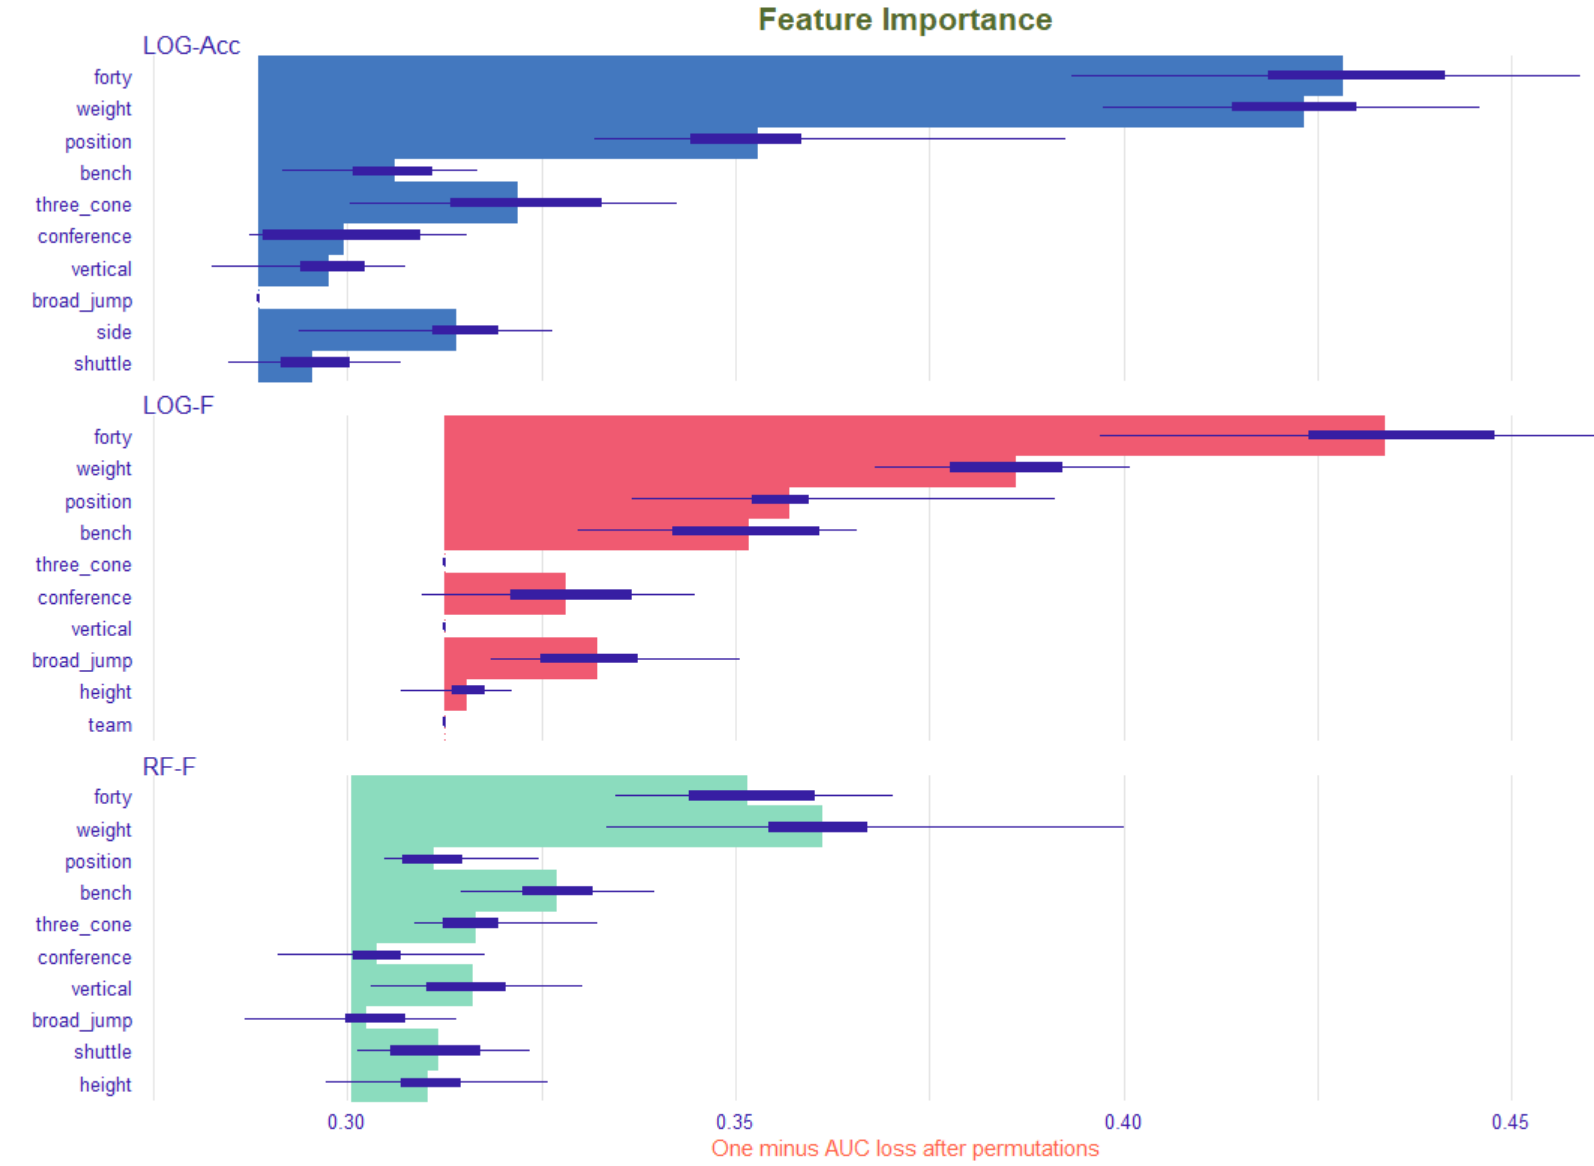
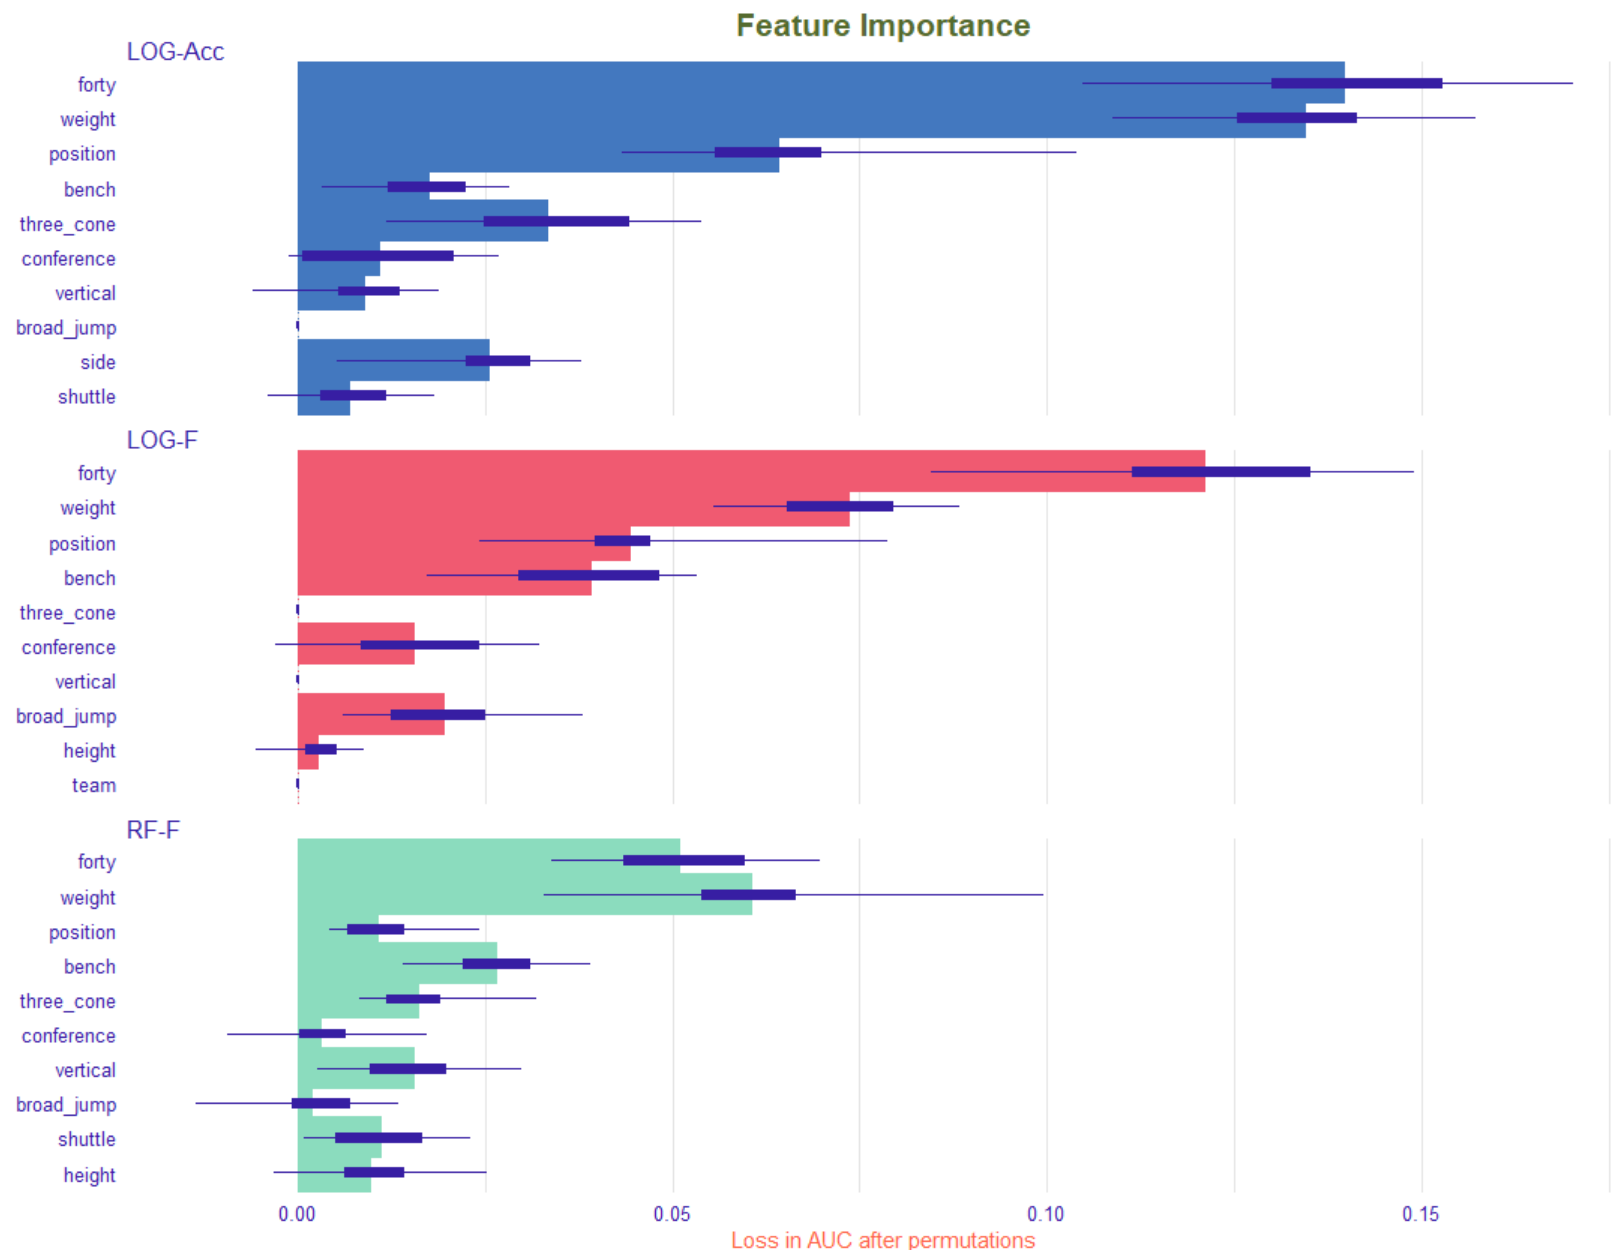
README

diff --git a/README.md b/README.md
@@ -23,7 +23,7 @@ doParallel | 1.0.16
 
 ### Business Requirement
 1. Develop a Model to predict if a player will be drafted
-2. For the players that got drafted develop a Model to predict if they will be drafted in the 1st Round.
+2. Examine the importance of combine results relate to being drafted.
 
 ### Data Collection
 **(raw)**
@@ -340,21 +340,75 @@ RF-Acc SIMPLE (mtry = 6, min = 9) | 0.697 | 0.679 | 0.809 | 0.432 | 0.73 | 0.809
 ## Feature Importance
 <img src="Images/PA/vip.PNG" width="  1000">
 
+> **Note: (Variable Importance)**
+- **Logistic Regression (NORMAL)**
+  1. Forty = 0.14
+  2. Weight = 0.135
+  3. Position = 0.064
+  4. Three Cone = 0.033
+  5. Side = 0.026
+  6. Bench = 0.018
+- **Logistic Regression (SIMPLE)**
+  1. Forty = 0.121
+  2. Weight = 0.074
+  3. Position = 0.044
+  4. Bench = 0.039
+  5. Broad Jump = 0.02
+  6. Conference = 0.016
+- **Random Forrest (NONE)**
+  1. Weight = 0.061
+  2. Forty = 0.051
+  3. Bench = 0.027
+  4. Three Cone = 0.016
+  5. Vertical 0.016
+  6. Shuttle = 0.011
+
 ## Partial Dependency
 <img src="Images/PA/pdp.PNG" width="  1000">
-<img src="Images/PA/cp.PNG" width="  1000">
 
-**SIDE**
+> **Note (pdp Continuous)**
+- **BENCH:** Looking at all the players in this dataset for **Random Forrest** on average the players on this dataset _based on bench reps_ are predicted to be drafted. It also shows that the relationship between bench reps and the probability of being drafted is monotonic. For **Logistic Regression** players that have a _bench rep below 10 reps_ are predicted on average to not be drafted. **Both Models** captures the general shape that as bench reps increase so those the probability of a certain player being drafted.   
+- **FORTY**:  In general **Both Models** show that as 40 time increases the probability of a player being drafted decreases. **Random Forrest** shows that relationship is monotonic showing a bit of a sharp decrease as 40 time approaches 5.0 seconds. However the **Random Forrest** still predicts in on average all players to be drafted just based on 40 time. **Logistic Regression** also captures the general relationship of 40 time and the probability of being drafted. However as 40 time approaches 5.0 seconds **Logistic Regression** starts to predict players not being drafted.
+- **WEIGHT:** In general **Both Models** show that in general as weight increases so those the probability of a player being drafted. **Random Forrest** shows that the relationship between weight and the probability of being drafted is monotonic.**Random Forrest** also predicts on average all players to be drafted to be drafted just based on weight. **Logistic Regression** also captures the general shpae that as weight increases so those the probaility of a player being drafted. However, if a certain player weighs below 200 **Logistic Regression** just based on wieght will predict that player as not being drafted.
 
-<img src="Images/PA/pdp_side.PNG" width="  1000">
+<img src="Images/PA/pdp_Position.PNG" width="  1000">
+<img src="Images/PA/pdp_Conference.PNG" width="  1000">
 
-**POSITION**
+> **Note (pdp Categorical)**
+- **POSITION:** For **_Random Forrest_** in general if your just differentiating by position the model predicts all position to be drafted. You also don't see a lot a variability in the probability of being drafted factored by position all around 60%. For **_Logistic Regression_** you see all lot a variability in the probability of being drafted factored by position. _Offensive Guards & Tackles_ have the highest probability of being drafted at around 70-80%. Edge Rushers, Long Snappers, Quarterbacks, and Safty have lowest probability of being drafted at around 20%
+- **CONFERENCE:** **Random Forrest**, just based on conference, shows no matter which conference the player plays for the model will predict them as being drafted, However Division I-AA, II, III the probability decreases. **Logistic Regression** predicts if the player plays for the Sunbelt Conference will have the highest probability of being drafted. If the player plays for the Division I-AA, II, III the the player will probably not be drafted.
 
-<img src="Images/PA/pdp_pos.PNG" width="  1000">
+### Partial Dependency: (Position)
 
-**CONFERENCE**
+<img src="Images/PA/pdp_Cont_Position_RF.PNG" width="  1000">
 
-<img src="Images/PA/pdp_conf.PNG" width="  1000">
+> **Note (Random Forrest - Position)**
+- **BENCH:** When you look a bench factored by Position is still sticks with the same general relationship, As you bench reps increase so those the probability of a player being drafted. It looks like no matter the position if your able to bench over 20 reps the probability of you being drafted increase to above 50%
+- **FORTY:** When you look at 40 times factored by Position
+- **WEIGHT:**
+
+<img src="Images/PA/pdp_Cont_Position_LOG.PNG" width="  1000">
+
+> **Note (Logistic Regression - Position)**
+- **BENCH:**
+- **FORTY:**
+- **WEIGHT:**
+
+### Partial Dependency: (Conference)
+
+<img src="Images/PA/pdp_Cont_Conference_RF.PNG" width="  1000">
+
+> **Note (Random Forrest- Conference)**
+- **BENCH:**
+- **FORTY:**
+- **WEIGHT:**
+
+<img src="Images/PA/pdp_Cont_Conference_LOG.PNG" width="  1000">
+
+> **Note (Logistic Regression - Conference)**
+- **BENCH:**
+- **FORTY:**
+- **WEIGHT:**
 
 ## Instance-Level
 <img src="Images/PA/rf_cm.PNG" width="  1000">
